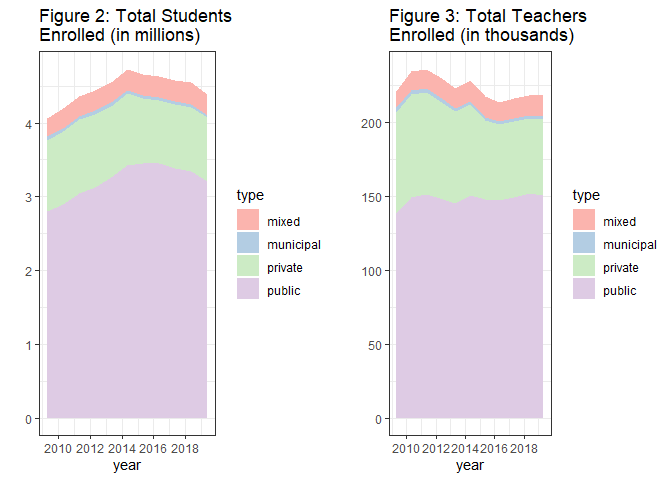
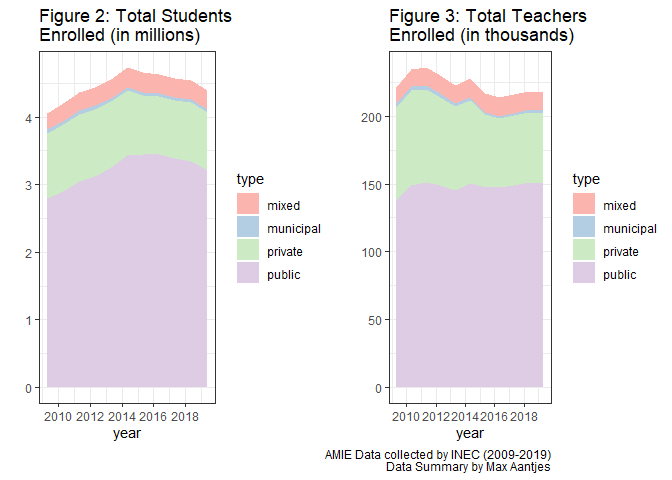
Uploaded Brief Paper

diff --git a/brief-paper.md b/brief-paper.md
@@ -1,7 +1,8 @@
-The significant drop in student enrolment in Ecuador: what does it mean?
+The transition from Private to Public Education in Ecuador: what does it
+mean?
 ================
 Max Aantjes
-15/09/2020
+04/10/2020
 
 **At the end of June, the IADB reported that public education enrolment
 in the Ecuadorian coastal provinces had increased with 6.5% (Olson,
@@ -9,28 +10,177 @@ in the Ecuadorian coastal provinces had increased with 6.5% (Olson,
 reported that over 150 million students nationwide have transitioned
 from private to public institutions (Ecuavisa, 2020).**
 
-This apparent fall in private education enrolment was entirely expected.
-The main driver singled out in the transition is the continued
-contraction of Latin American economic activity. In Ecuador,
-unemployment rose to 13,3% in June 2020, compared to 3,8% in December
-2019 (INEC, 2020, p.15). Parents who can no longer afford private
-education have strong incentives to shift their child to public
-education, which is free. It is for similar reasons that 40% of Mexico’s
-private institutions are expected to go bankrupt. The Ecuadorian
-government has attempted to intervene by reducing fees of private
-institutions by 25% for parents who lost their job. However, this has
+This apparent fall in private education enrolment was expected. The main
+driver is no doubt the continued contraction of Latin American economic
+activity. In Ecuador, unemployment rose to 13,3% in June 2020, compared
+to 3,8% in December 2019 (INEC, 2020, p.15). Parents who can no longer
+afford private education have strong incentives to shift their child to
+public education, which is free. It is for this reason that 40% of
+Mexico’s private institutions are expected to go bankrupt (Sanches,
+2020). The Ecuadorian government has attempted to avoid such a
+transition in Ecuador by reducing fees of private institutions by 25%
+for parents who lost their job (Olson, 2020). However, this has
 apparently failed to stop the widespread transition.
 
-Although the driver is undisputed, it remains difficult to draw
-concerete conclusions from the circulating figures alone. They are not
-only hard to verify - since the Ecuadorian government has not made
-comprehensive data on this year’s enrolment available - but they are
-also still in flux. Although the school year in the Ecuadorian Highlands
-and Amazon region started in September, it remains possible for parents
-to transfer their children from one school to another and to matriculate
-‘extroardinarily’ until the 14th of January 2021.\[1\] The current
-situation may thus reverse, stabalise or even worsen in the coming
-months. Nevertheless, we can ask two crucial questions:
+Although the driver is undisputed, it remains difficult to draw concrete
+conclusions from the circulating figures alone. They are not only hard
+to verify - since the Ecuadorian government has not made comprehensive
+data on this year’s enrolment available - but they are also still in
+flux. Although the school year in the Ecuadorian Highlands and Amazon
+region started in September, it remains possible for parents to transfer
+their children from one school to another and to matriculate
+‘extraordinarily’ until the 14th of January 2021 (MINEDUC, 2020). The
+current situation may thus reverse, stabilise or even worsen in the
+coming months.
+
+Regardless of this uncertainty, there are a variety questions relevant
+to public policy which can be answered through historical data. A
+particular worry is that an inflow of students from private to public
+institutions will increase the workload for public school teachers, thus
+reducing the quality of education. Their workload would increase because
+the number of students rises, whilst the number of teachers remains the
+same. In other words, the Student Teacher Ratio (ST ratio) goes up.\[1\]
+To see how and if this will indeed happen, this brief article answers
+the following questions:
+
+1.  What types of private educational institutions are there in
+    Ecuador?  
+2.  How have ST ratios varied historically?  
+3.  How is enrolment in different types of education geographically
+    distributed?
+4.  What is the relationship between private education enrolment and the
+    ST ratio in public education?  
+5.  What do the answers to these questions mean for policymaking?
+
+### What types of Ecuadorian private educational institutions?
+
+Educational institutions in Ecuador cannot just be classified as private
+or public institutions. There are indeed *instituciones fiscales*,
+public institutions fully funded by the government, and *instituciones
+particulares*, private institutions fully funded by parents. However,
+there are also *instituciones municipals*, institutions fully funded by
+the local municipality and *instituciones fiscomisionales*, private
+religious schools which receive subsidies for teacher salaries and often
+partially or fully wave fees for disadvantaged students (IADB, 2018,
+p.9). As we shall later see, these distinctions matter greatly for
+policy making.
+
+### How have ST ratios varied historically?
+
+Historically, ST ratios in Ecuador have fluctuated significantly. Figure
+1 graphs the median ST ratio of Ecuadorian schools for different types
+of education between 2009 and 2019. It demonstrates that the ST ratios
+increased steadily from 2010 to 2014 in public schools, after which they
+dropped again. Figure 2 and figure 3 summarise the total number of
+students and teachers for this period per education type. Figure 2
+indicates that the ST ratio was paired with an increase in the number of
+public students, as well as a small decrease in private school students.
+Figure 3 demonstrates that during this time, the number of public school
+teachers stagnated.
+
+![Figure 1](Figure_1.png)
+
+![Figure 2 and 3](Figure_2_3.png)
+
+This suggests that teacher supply in the public school sector is highly
+inelastic to an increase in the demand for teachers (a rise in the
+number of students). If this is true, then a transition of students from
+private schools to public schools will cause a rise in the ST ratio in
+public schools unless the government intervenes more than it has done in
+prior years.
+
+### How is enrolment in different types of education geographically distributed?
+
+The national trends observed are not reflective of all geographical
+areas. Figure 4 shows that the distribution of private institutions is
+highly unequal. It graphs the average proportion of private education
+enrolment at cantonal (parish) of 10 ordered deciles in 2009. The 4
+bottom deciles of cantons had no private schools at all, the bottom 6
+deciles had less than 10% of students enrolled in education and the top
+decile had on average 28% of students enrolled in private education.
+This means that a transition from private to public education will
+impact some cantons more than others.
+
+![Figure 4](Figure_4.png)
+
+### What is the relationship between private education enrolment and the ST ratio in public education?
+
+Since private education enrolment varies across areas, it is possible to
+test whether high ST ratios in public schools are associated with it.
+Figure 6 regresses the ST ratio in public schools against the log of the
+private school proportion per canton. The data is also segregated by
+rural and urban area. In urban cantons with positive private school
+enrolment, there is a strong positive relationship (see Figure 6). The
+coefficient equals 1.982377. This means that if a canton A’s proportion
+of private students is 100% higher than that of canton B (e.g. 5% and
+10%), then we expect the ST ratio to be 1 unit higher in canton A, or in
+other words, for there to be 1 more student for every teacher in canton
+B. *Prima facie* these results are extremely surprising: an increase in
+the ammount of students enrolled in privated education is associated
+with higher public school ST ratios.
+
+![Figure 6](Figure_6.png)
+
+However, the positive relationship disappears (and becomes slightly
+negative) if the same regression is performed on the sum of the
+proportion of students in private **and mixed** education (see Figure
+8). This is also surprising, because we would expect semi-private
+education enrolment to have the same effect as purely-private education
+enrolment: they should both reduce the number of students in the public
+school system. So what is going on here?
+
+![Figure 8](Figure_8.png)
+
+One possible explanation that the size of the student population acts as
+a confounding variable. It seems plausible that ST ratios are higher in
+crowded cities, with larger student populations. It is also plausible
+that mixed institutions are located in low population areas, since there
+tends to be lower income and (perhaps) a stronger influence of the
+Catholic Church. For similar reasons, private institutions might
+concentrate in higher population areas.
+
+Figure 9, supports this assumption. It plots the ST ratio in public
+schools in a canton against the total number of students in that canton.
+Cantons with a high level of mixed institutions (blue) are associated
+with low numbers of students and a low ST ratio. Cantons with a high
+level of private institutions (red) are associated with high numbers of
+students and a high ST ratio. The conclusion we can draw from the data
+is thus not a strong positive or negative effect of private education
+enrolment on ST ratios. Instead, it is the effect of population size on
+the type of educational institutions that are prevalent in the area.
+
+![Figure 9](Figure_9.png)
+
+### What do the answers to these questions mean for policymaking?
+
+There are at least two policy conclusions that can be drawn from the
+results:
+
+1.  The number of teachers in public education tend to be unresponsive
+    to the demand of teachers. Given the increase of public school
+    enrolment in Ecuador, this means government should introduce new
+    policies to encourage public teacher hiring.
+
+2.  Policy makers should be aware of the systematic concentration of
+    different types of educational institutions in Ecuador. Purely
+    private institutions (instituciones fiscales) tend to concentrate in
+    large cities, where ST ratios also tend to be high. Semi-private
+    institutions (instituciones fiscomisionales) tend to concentrate in
+    lesser populated areas, where ST ratios tend to be low. To avoid a
+    rise in ST ratios, government policy should thus focus on reducing
+    the transition to public institutions from **purely** private
+    institutions.
+
+These policy recommendations are of course limited. An essential
+limitation is that ST ratios tends to be necessary but not sufficient
+for quality education. There is no doubt that additional policies to
+ensure the delivery of education to vulnerable students is required,
+particularly due to the recent digitalisation of education in Ecuador.
+Nevertheless, the potentially long-term impacts of this school
+transition (private schools might go bankrupt), it is essential that the
+government takes the potential inelasticity of the public school teacher
+supply into account. Not doing so, could lead to overburdening public
+school teachers even further.
 
 \~\~\~
 
@@ -39,7 +189,7 @@ repository](https://github.com/MaxAantjes/Exp-Analysis-Dropout-EDU-EC-COVID19).
 To ensure reproducibility, all computations used to generate the
 results, as well as justifications where relevant, have been made
 available within the [appendix
-file](https://github.com/MaxAantjes/Exp-Analysis-Exclusion-EDU-EC-COV19/blob/master/appendix.md)
+file](https://github.com/MaxAantjes/Exp-Analysis-Dropout-EDU-EC-COVID19/blob/master/appendix.md)
 of this repository. This written piece is part of a series of posts
 which are meant to be conversation starters rather than bullet-proof
 analyses. It hopes to inspire others to traverse beyond its inevitable
@@ -51,6 +201,9 @@ Ecuavisa (2020). *Más de 150 mil estudiantes pasaron de educación
 privada a fiscal en Ecuador* AVailable from:
 <https://www.ecuavisa.com/articulo/noticias/nacional/647796-mas-150-mil-estudiantes-pasaron-educacion-privada-fiscal-ecuador>
 
+IADB (2018). *Private schooling in Latin America*. Available from:
+\[<https://publications.iadb.org/publications/english/document/Private-Schooling-in-Latin-America-Trends-and-Public-Policies.pdf>\]
+
 INEC (2020). *Encuesta Nacional de Empleo, Desempleo y Subempleo
 Telefónica*. Available from:
 <https://www.ecuadorencifras.gob.ec/documentos/web-inec/EMPLEO/2020/ENEMDU_telefonica/Principales_Resultados_Mercado_Laboral.pdf>
@@ -58,16 +211,18 @@ Telefónica*. Available from:
 MINEDUC (2013). *Acuerdo No. 0067-13-A*. Available from:
 <https://educacion.gob.ec/wp-content/uploads/downloads/2013/04/ACUERDO%20067-13.pdf>
 
-MINEDUC (2020). *Las clases en la Sierra-Amazonía 2020-2021 iniciaron
-desde casa*. Available from:
-<https://educacion.gob.ec/las-clases-en-la-sierra-amazonia-2020-2021-iniciaron-desde-casa/>
-
-MINEDUC (2019). *El año escolar del régimen Sierra-Amazonía arrancará el
-2 de septiembre*. Available from:
-<https://educacion.gob.ec/el-ano-escolar-del-regimen-sierra-amazonia-arrancara-el-2-de-septiembre/>
+MINEDUC (2020). *Fase de matrícula extraordinaria y traslados para
+régimen Sierra-Amazonía 2020-2021, inicia el 7 de septiembre*.
+Available from:
+<https://educacion.gob.ec/fase-de-matricula-extraordinaria-y-traslados-para-regimen-sierra-amazonia-2020-2021-inicia-el-7-de-septiembre/>
 
 Olsen, A. S. (2020). *COVID-19 y la transición de la educación privada a
 la pública en Ecuador*. IADB. Available from:
 <https://blogs.iadb.org/educacion/es/covid-19-y-la-transicion-de-la-educacion-privada-a-la-publica-en-ecuador/>
 
-1.  <https://educacion.gob.ec/fase-de-matricula-extraordinaria-y-traslados-para-regimen-sierra-amazonia-2020-2021-inicia-el-7-de-septiembre/>
+Sanches, A. (2020). *Advierten que 4 de cada 10 escuelas privadas
+cerrarán por educación a distancia*.^Available from:
+<https://www.elfinanciero.com.mx/empresas/advierten-que-4-de-cada-10-de-escuelas-privadas-cerraran-por-educacion-a-distancia>
+
+1.  This is simply the number of students at a particular school divided
+    by the number of teachers at that school.

diff --git a/appendix.md b/appendix.md
@@ -831,7 +831,8 @@ increase in public student enrolment.
 ``` r
 p <- ggplot(dat = dfprov1 %>% filter(province == "total"), aes(x = year, y = med.stratio, col = type))
 p1 <- p + geom_point() + geom_line() + scale_color_brewer(palette="Pastel1")
-p2 <- p1 + theme_bw() + labs(title = "Figure 1: Median Teacher Student Ratio", y = "")
+p2 <- p1 + theme_bw() + labs(title = "Figure 1: Median Teacher Student Ratio", y = "",
+                             caption = "AMIE Data collected by INEC (2009-2019)\nData Summary by Max Aantjes")
 p2
 ```
 
@@ -840,10 +841,12 @@ p2
 ``` r
 p <- ggplot(dat = dfprov1 %>% filter(province == "total"), aes(x = year, y = sum.students/1000000, fill = type))
 p1 <- p + geom_area() + scale_fill_brewer(palette="Pastel1")
-p2 <- p1 + theme_bw() + labs(title = "Figure 2: Total Students\nEnrolled (in millions)", y = "") 
+p2 <- p1 + theme_bw() + labs(title = "Figure 2: Total Students\nEnrolled (in millions)", y = "",
+                             caption = "\n") 
 q <- ggplot(dat = dfprov1 %>% filter(province == "total"), aes(x = year, y = sum.teachers/1000, fill = type))
 q1 <- q + geom_area() + scale_fill_brewer(palette="Pastel1") 
-q2 <- q1 + theme_bw() + labs(title = "Figure 3: Total Teachers\nEnrolled (in thousands)", y = "")
+q2 <- q1 + theme_bw() + labs(title = "Figure 3: Total Teachers\nEnrolled (in thousands)", y = "",
+                             caption = "AMIE Data collected by INEC (2009-2019)\nData Summary by Max Aantjes")
 
 grid.arrange(p2, q2, ncol = 2, nrow =1)
 ```
@@ -875,7 +878,8 @@ p <- ggplot(data = dfcant1, aes(x = quantile, y = private))
 p1 <- p + geom_line(col = "#c1e0c2") + geom_point(col = "#c1e0c2") + theme_bw()
 p2 <- p1 + labs(y = "Average Proportion Students\nenrolled in Private Education",
                 title = "Figure 4: Highly Unequal Distribution of Private Institutions",
-                x = "Ordered Deciles (of cantons)")
+                x = "Ordered Deciles (of cantons)",
+                caption = "AMIE Data collected by INEC (2009)\nData Summary by Max Aantjes")
 p2
 ```
 
